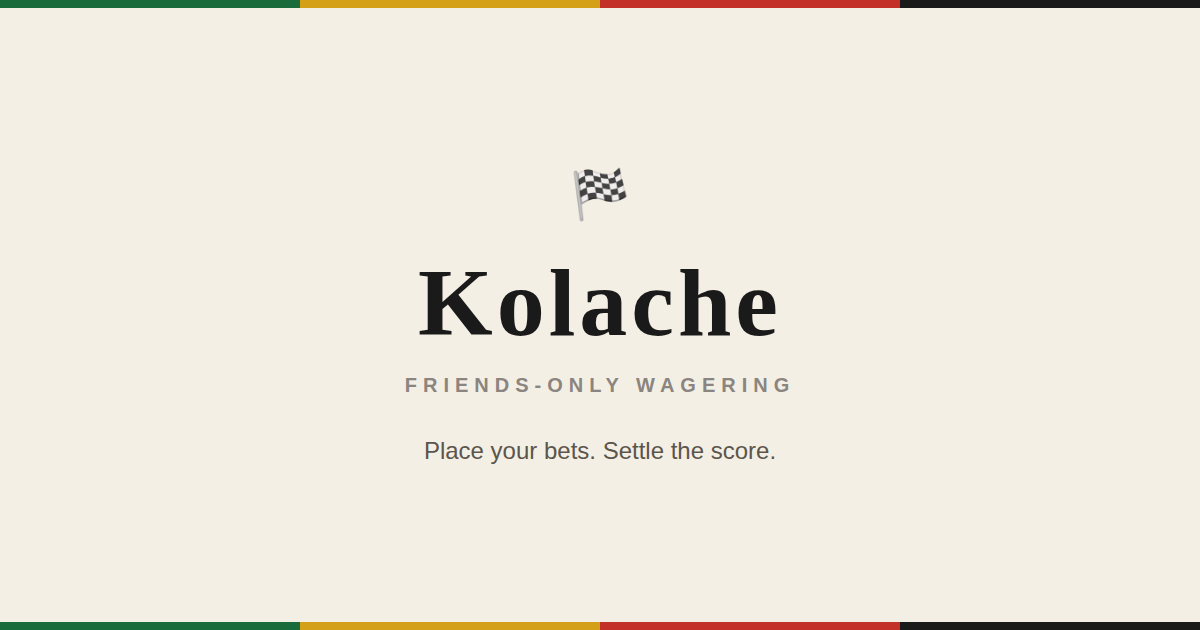
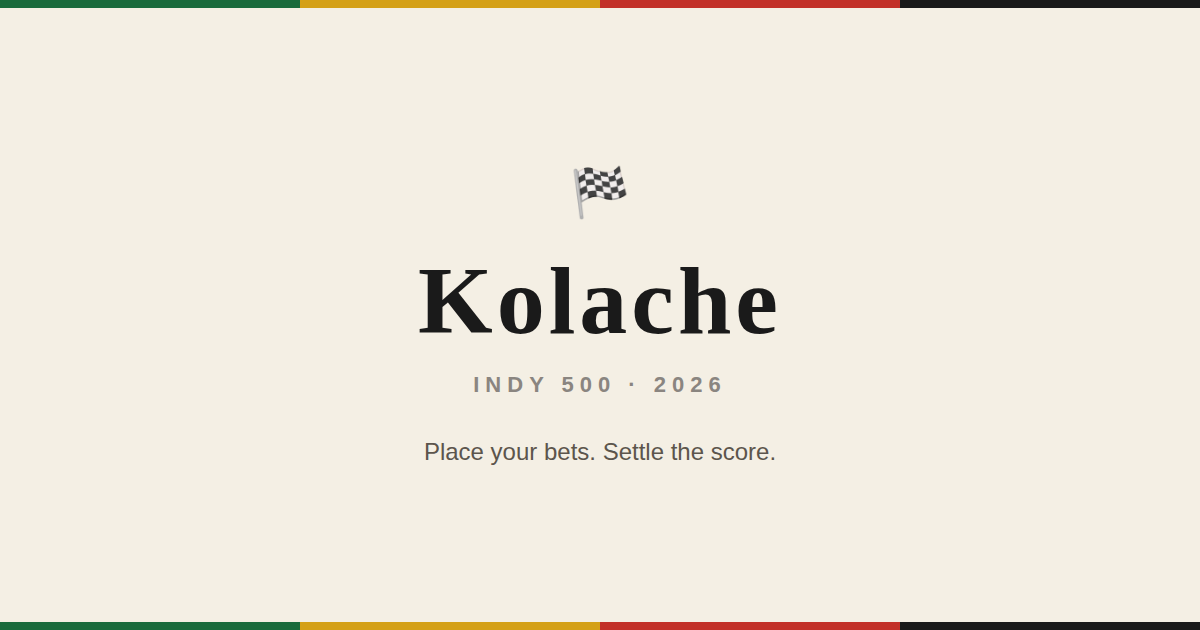
OG tagline: Indy 500 2026

diff --git a/index.html b/index.html
@@ -3,9 +3,9 @@
 <head>
 <meta charset="UTF-8">
 <meta name="viewport" content="width=device-width, initial-scale=1.0, maximum-scale=1.0">
-<title>Kolache — Friends-Only Wagering</title>
+<title>Kolache — Indy 500 2026</title>
 <meta property="og:title" content="Kolache">
-<meta property="og:description" content="Place your bets. Settle the score. Friends-only wagering.">
+<meta property="og:description" content="Place your bets. Settle the score. Indy 500 2026.">
 <meta property="og:image" content="https://kolache-e58fa.web.app/og-image.png">
 <meta property="og:image:width" content="1200">
 <meta property="og:image:height" content="630">
